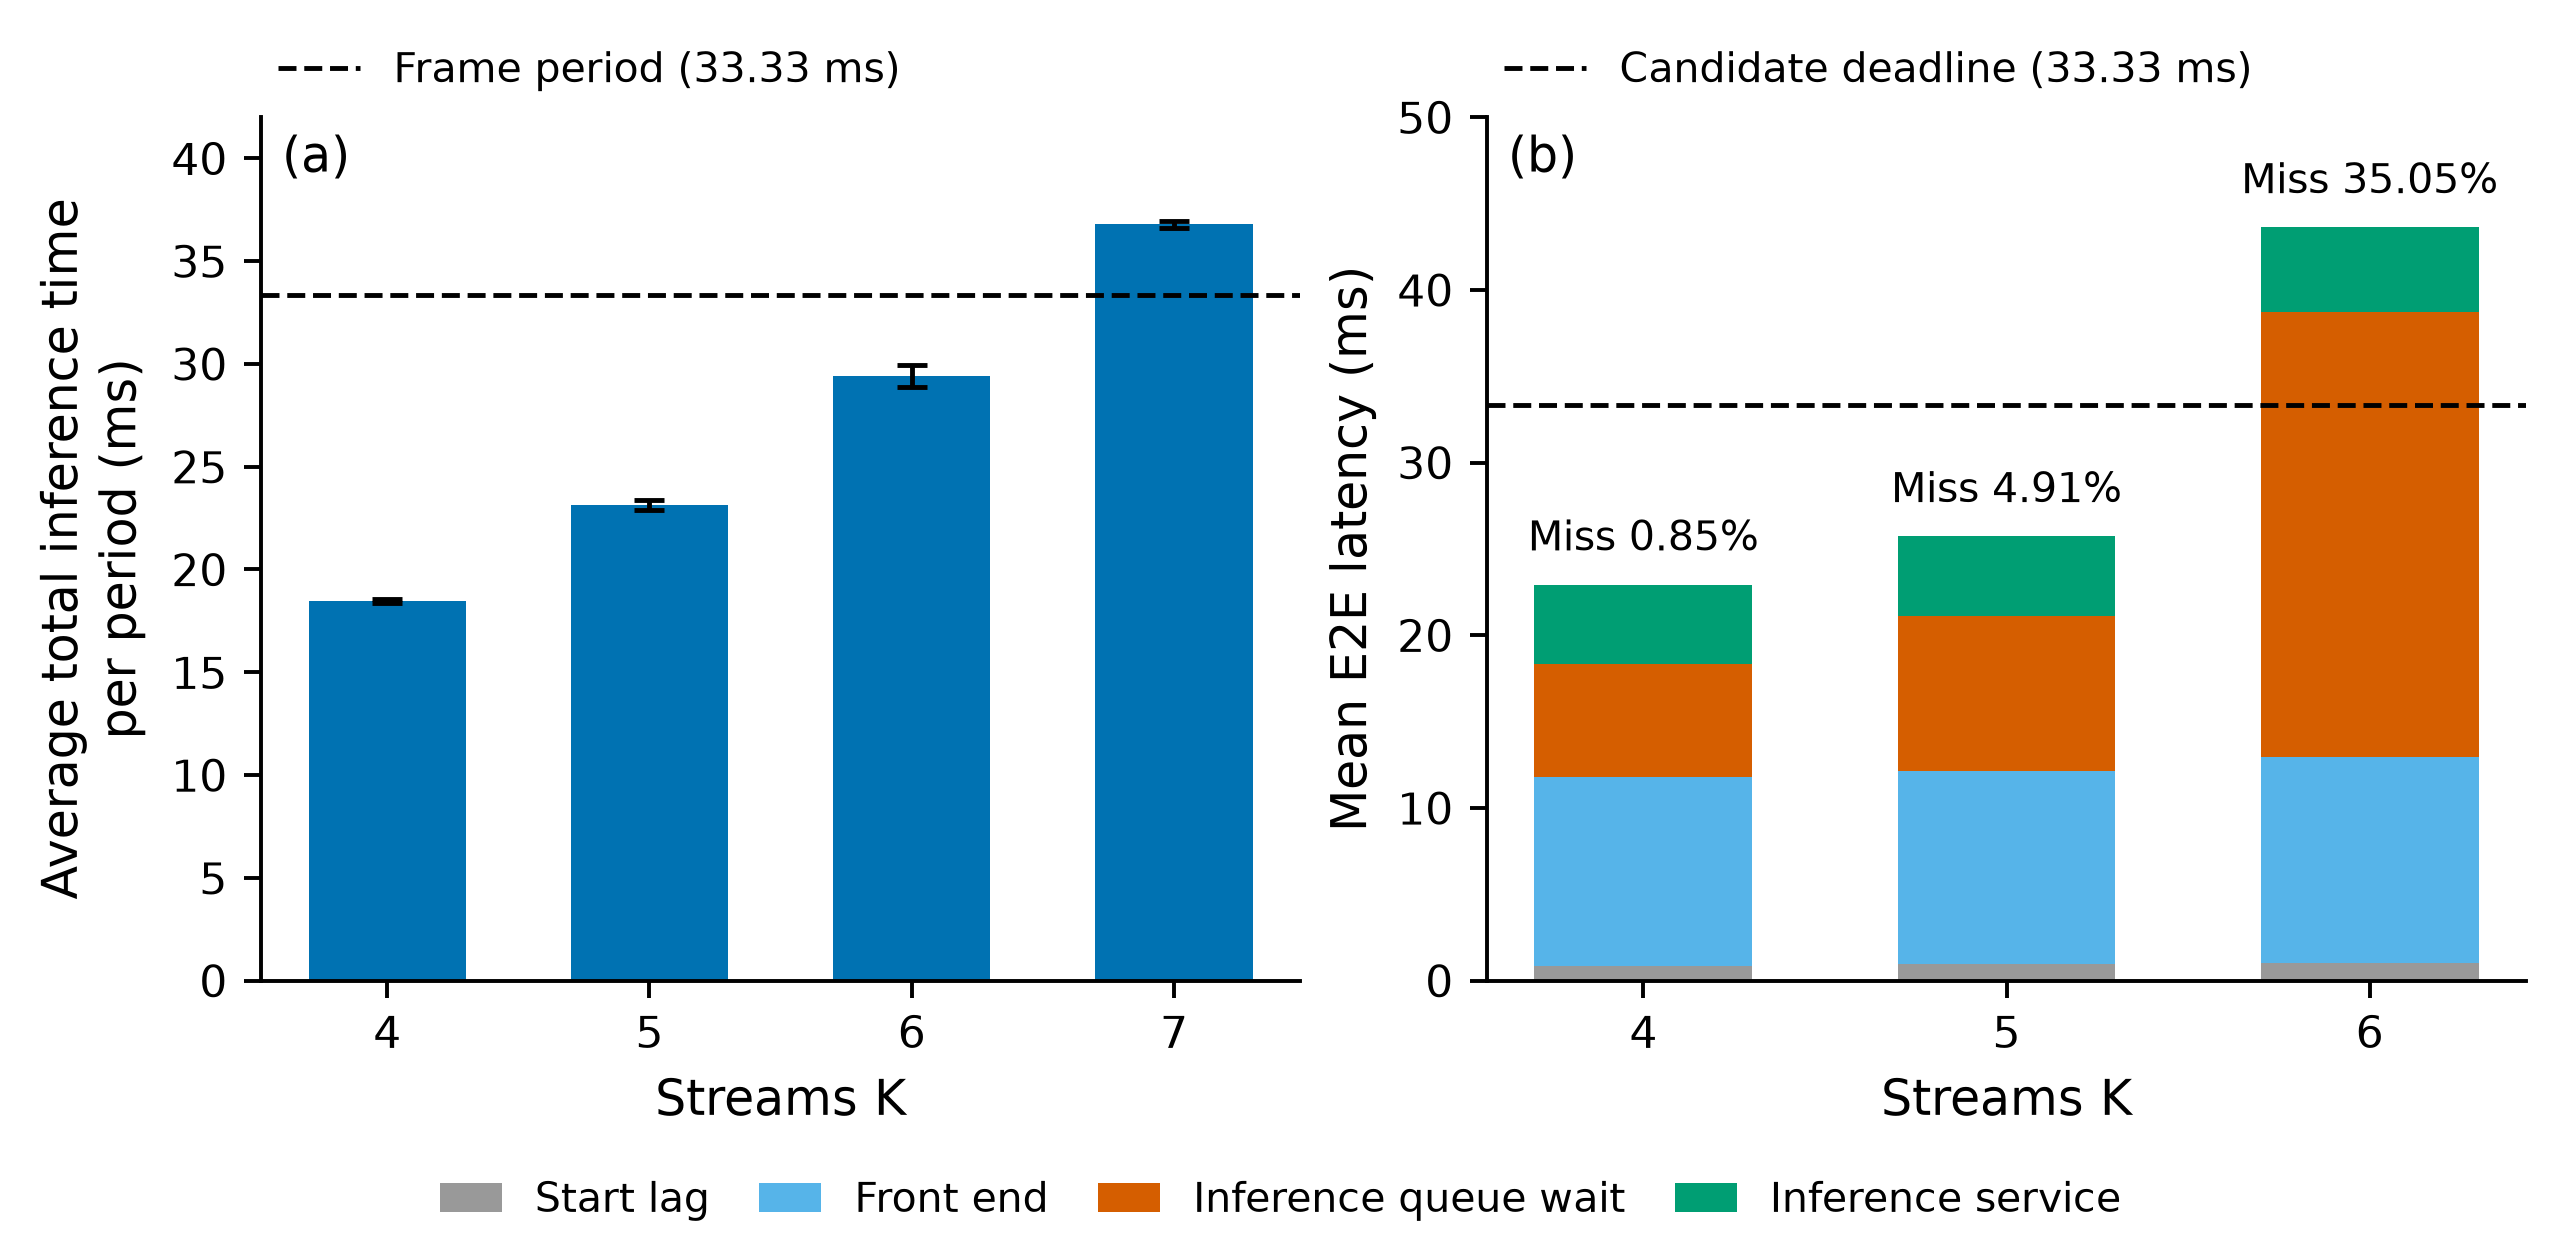
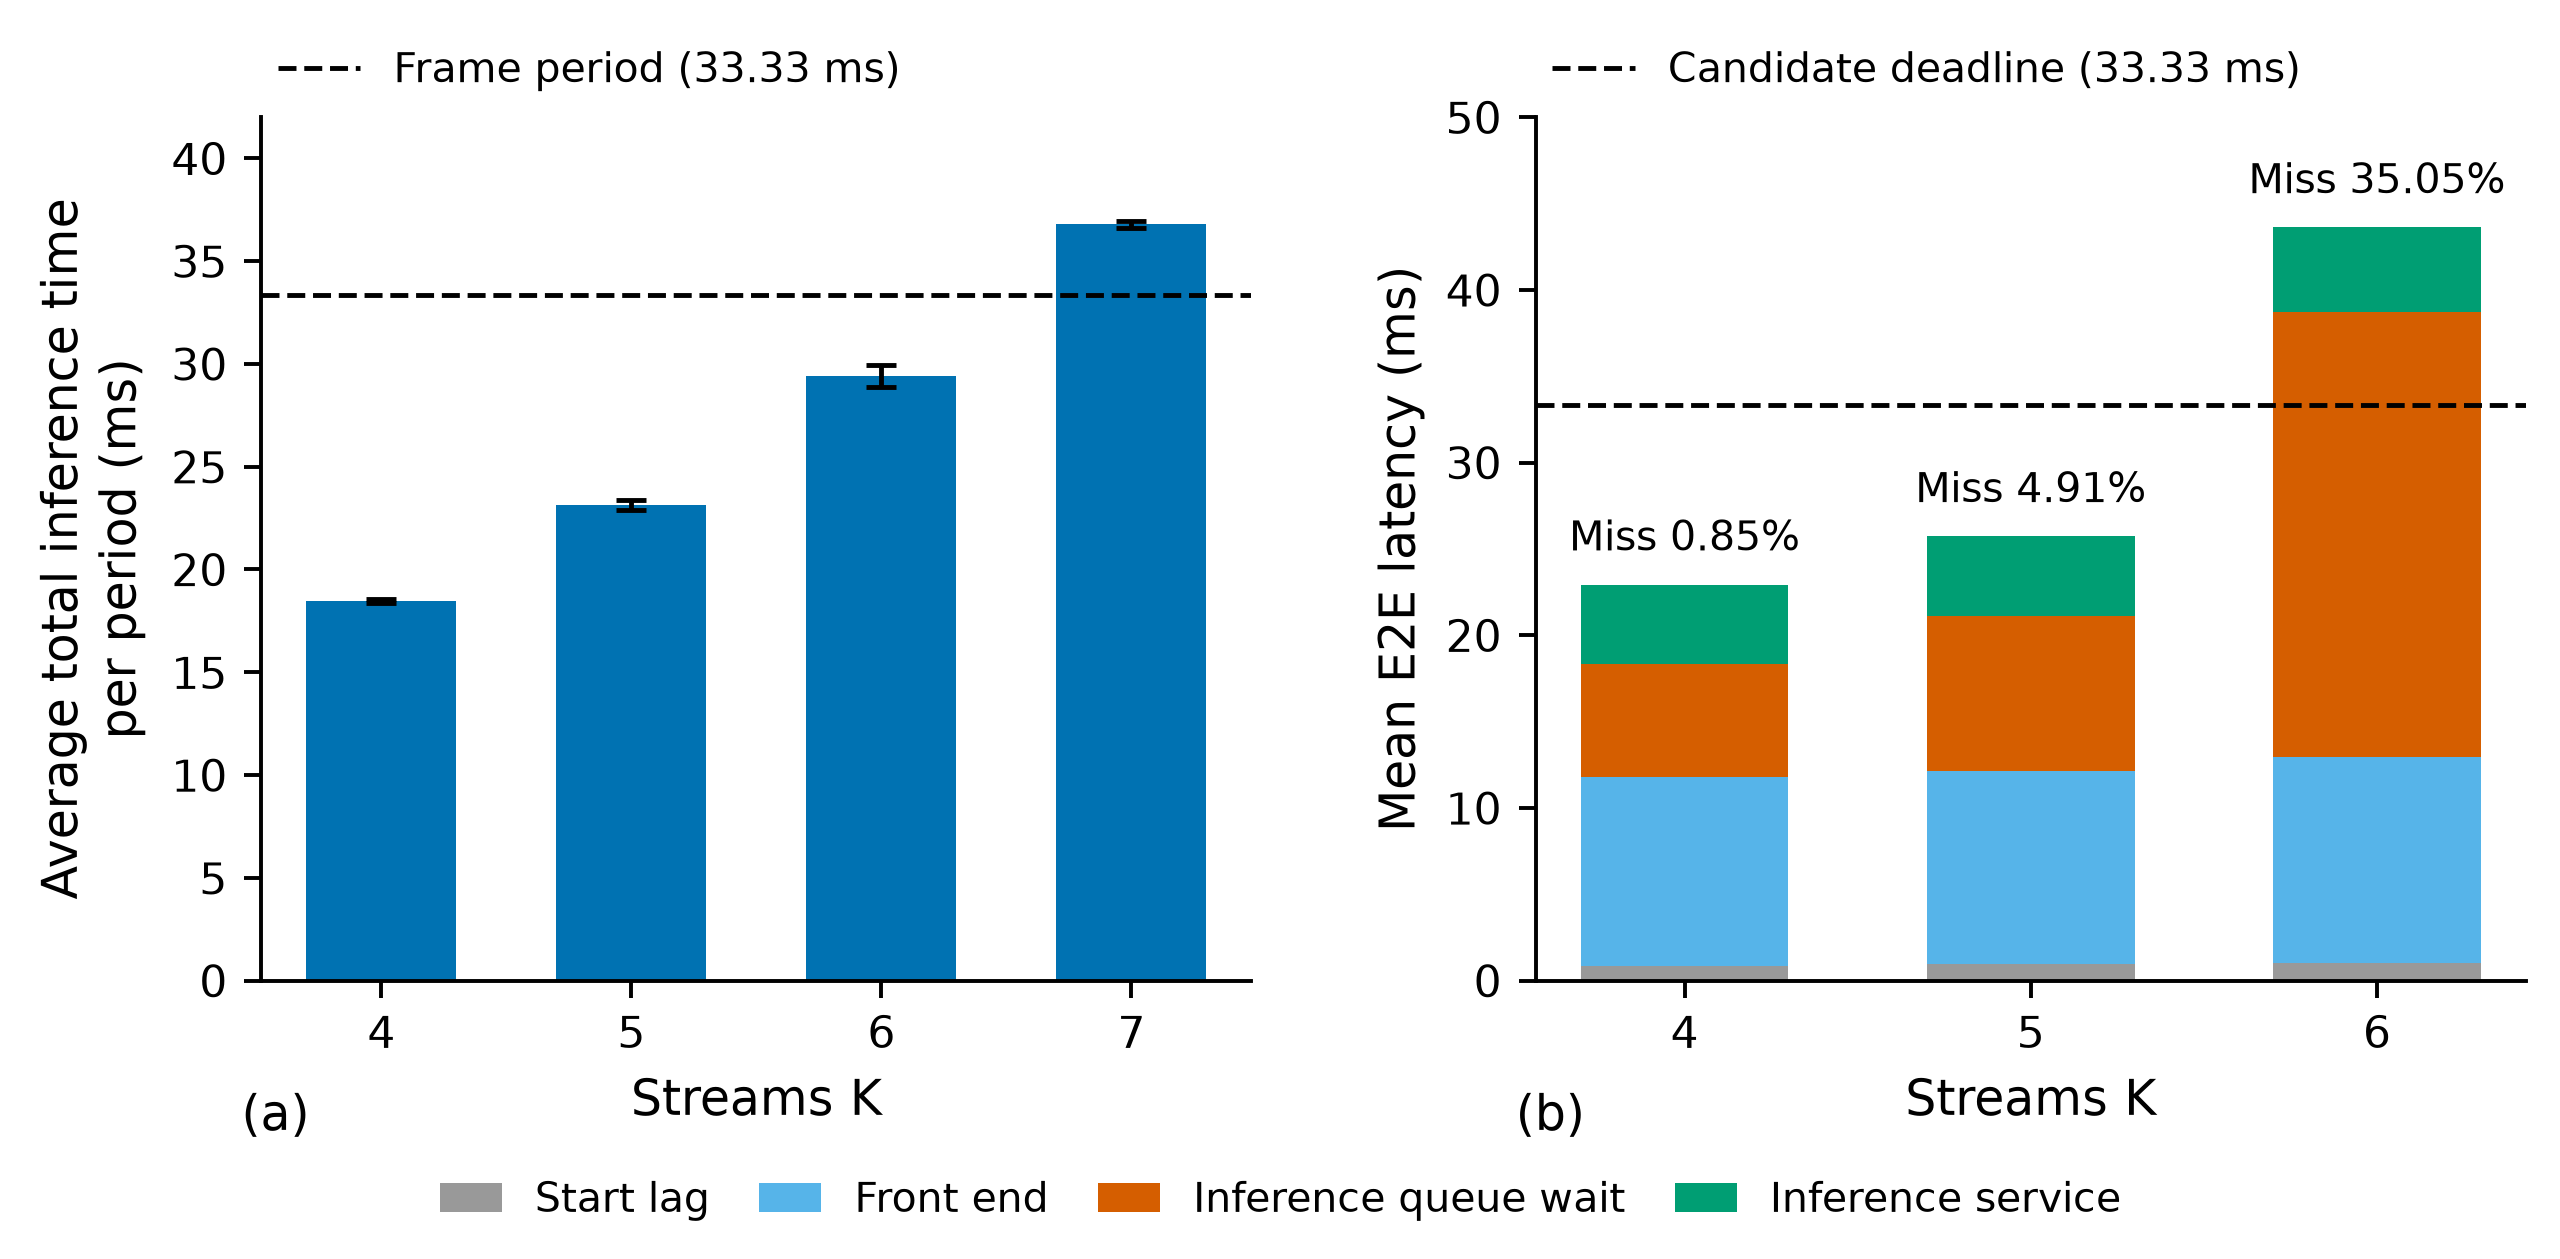
Adjust Figure 4 panel labels and spacing

diff --git a/results/local_latency_breakdown/analysis/temporal_queue/plot_capacity_deadline_gap.py b/results/local_latency_breakdown/analysis/temporal_queue/plot_capacity_deadline_gap.py
@@ -67,6 +67,7 @@ def main():
             "axes.grid": False, "savefig.dpi": 350,
         })
         fig, axes = plt.subplots(1, 2, figsize=(7.2, 3.5), layout="constrained")
+        fig.get_layout_engine().set(wspace=.10)
         left, right = axes
         left.bar(left_ks, means, yerr=deviations, color="#0072B2", width=.6,
                  capsize=3, error_kw={"elinewidth": 1})
@@ -103,7 +104,7 @@ def main():
 
         assert all(not ax.get_title() for ax in axes)
         for ax, label in zip(axes, ["(a)", "(b)"]):
-            panel_label = ax.text(.02, .98, label, transform=ax.transAxes,
+            panel_label = ax.text(-.02, -.13, label, transform=ax.transAxes,
                                   ha="left", va="top", fontsize=10)
             panel_label.set_in_layout(False)
         # Exclusive creation protects existing figures, including this one.
